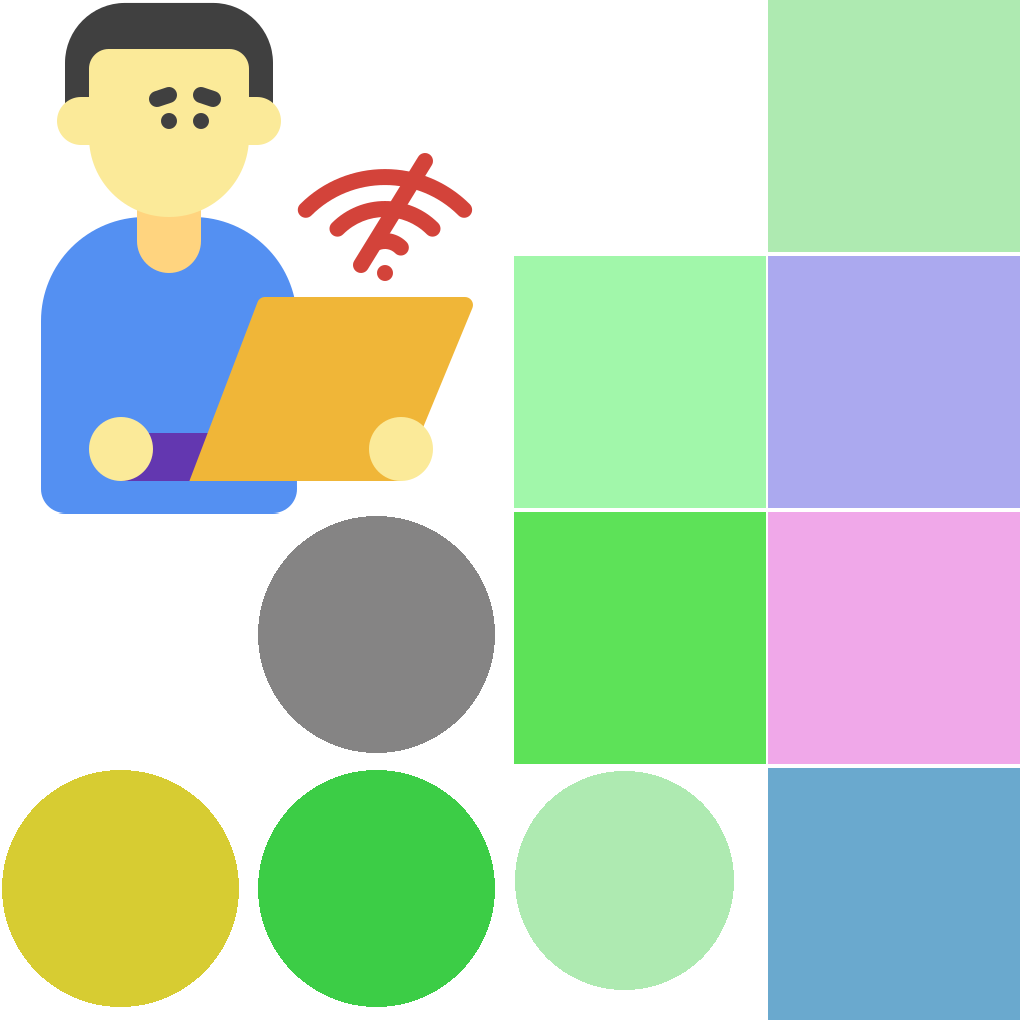
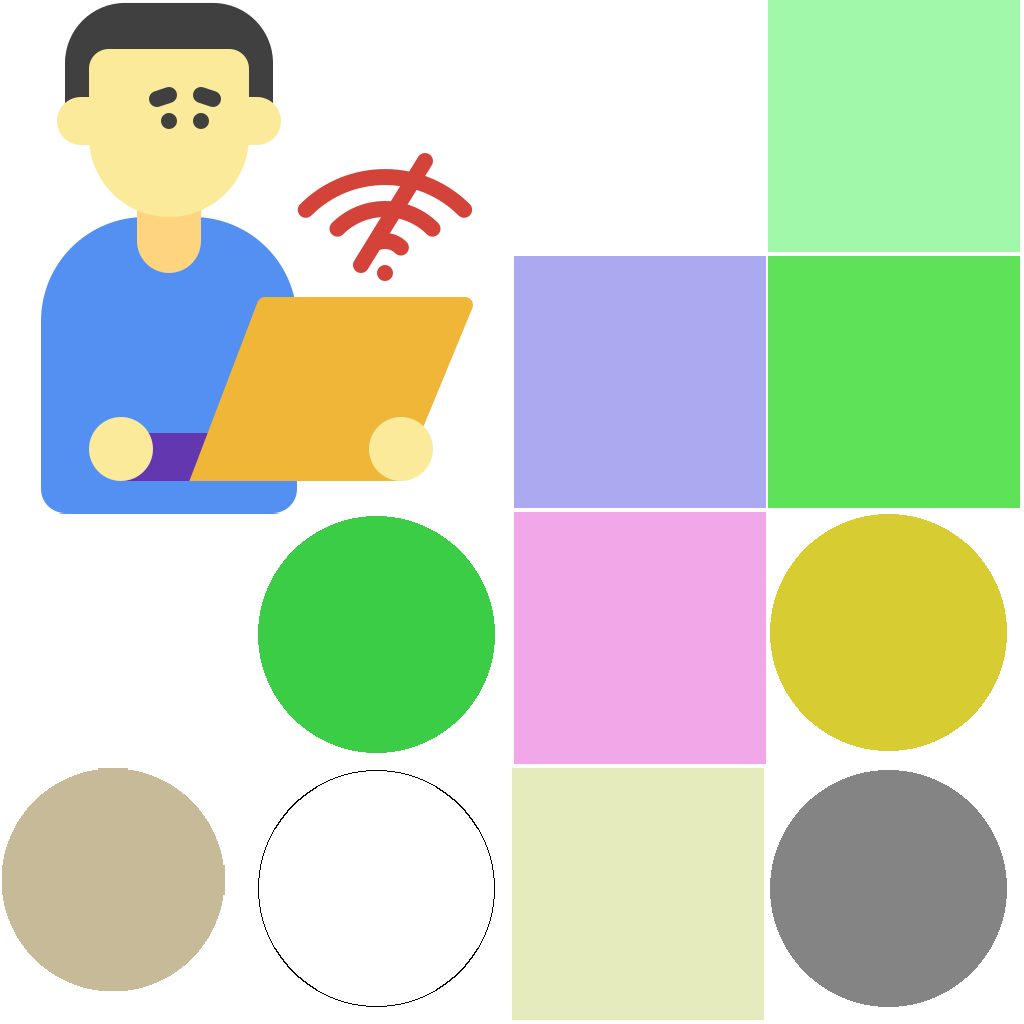
Mudanças de cores.

diff --git a/Letrando/style.css b/Letrando/style.css
@@ -3,7 +3,7 @@ html, body {
 	margin: 0;
 	overflow: hidden;
 	
-	background: #0055ff;
+	background: #ffffff;
 	color: white;
 }
 
